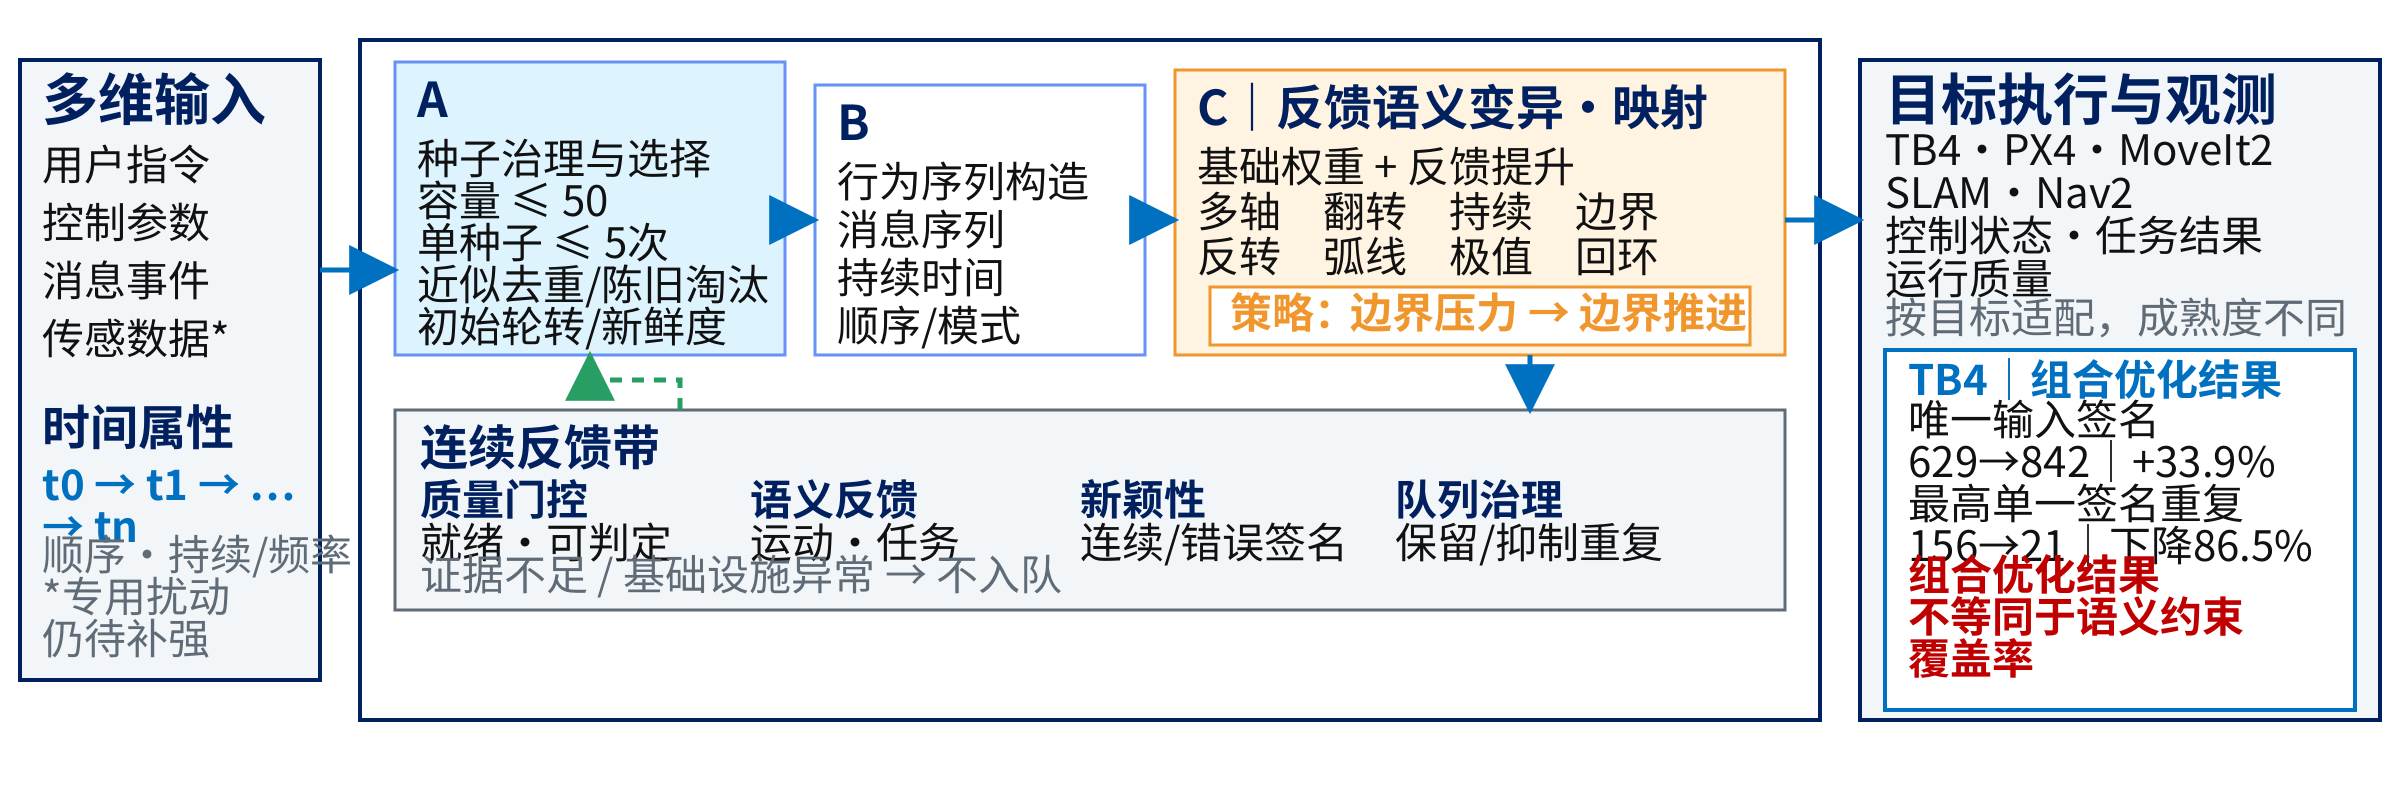
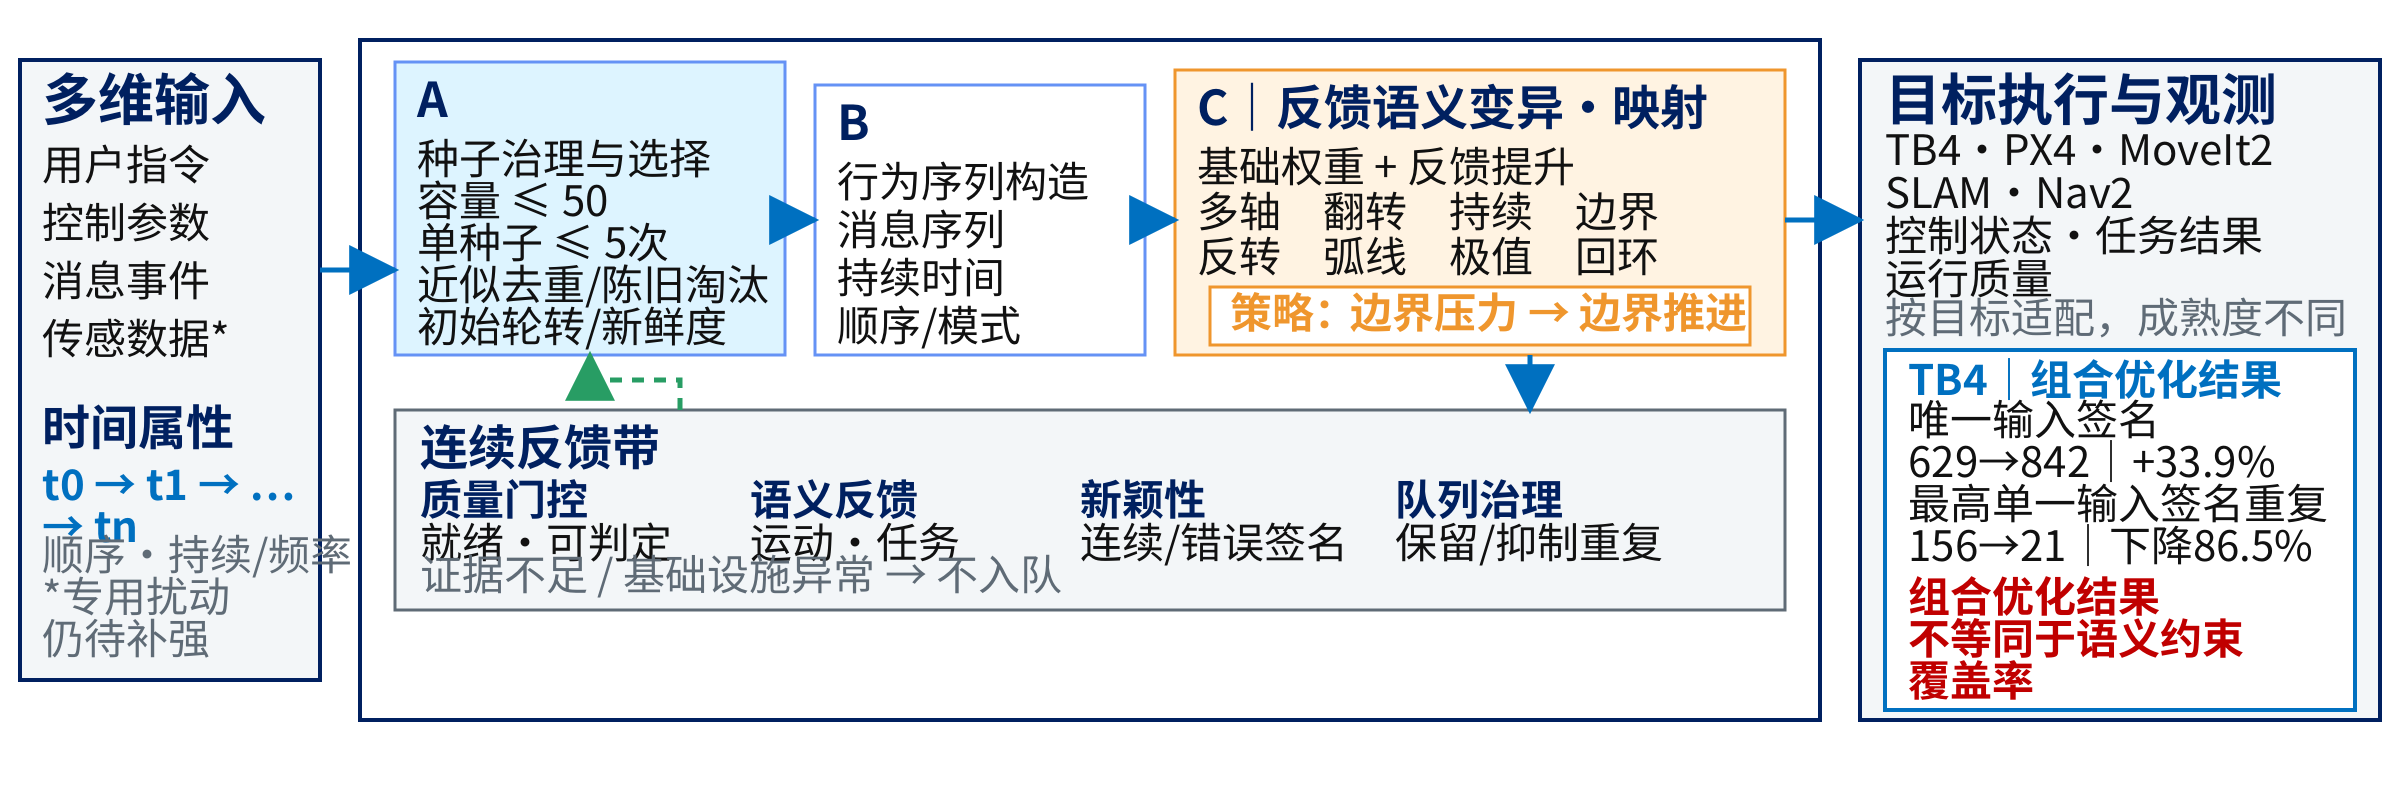
fix: remove PPT diagram overlaps

Changed region(s): [[0.7812, 0.6875, 0.9375, 0.875], [0.8438, 0.5938, 0.9688, 0.6562]]

diff --git a/人才项目/PPT_第2-3部分/tools/svg_diagrams.py b/人才项目/PPT_第2-3部分/tools/svg_diagrams.py
@@ -133,8 +133,8 @@ def draw_overview() -> str:
     c.polyline(((820, 330), (935, 330)), color=COLORS["blue"], arrow="blue")
     c.polyline(((1325, 330), (1440, 330)), color=COLORS["blue"], arrow="blue")
     # Each task has its own correctly typed asset output.
-    c.polyline(((820, 450), (820, 575), (1910, 575), (1910, 220), (1945, 220)), color=COLORS["blue"], arrow="blue")
-    c.polyline(((1325, 450), (1325, 565), (1900, 565), (1900, 337), (1945, 337)), color=COLORS["blue"], arrow="blue")
+    c.polyline(((820, 220), (850, 220), (850, 120), (1910, 120), (1910, 220), (1945, 220)), color=COLORS["blue"], arrow="blue")
+    c.polyline(((1325, 250), (1360, 250), (1360, 135), (1900, 135), (1900, 337), (1945, 337)), color=COLORS["blue"], arrow="blue")
     c.polyline(((1830, 330), (1885, 330), (1885, 454), (1945, 454)), color=COLORS["blue"], arrow="blue")
     # feedback is deliberately above the platform strip.
     c.polyline(((1635, 510), (1635, 550), (1130, 550), (1130, 510)), color=COLORS["green"], arrow="green", dash="12 10")
@@ -183,10 +183,10 @@ def draw_oracle_pipeline() -> str:
     label(c, 1165, 130, "自动化边界", size=48, fill=COLORS["orange"])
     label(c, 1165, 190, "阶段4", size=56)
     c.multiline(1165, 238, ("目标上下文化", "话题/字段　状态/时间窗", "容差/噪声　质量门控", "运行时判断"), leading=44)
-    c.rect(1165, 385, 500, 72, fill=COLORS["white"], stroke=COLORS["orange"])
-    c.multiline(1185, 414, ("候选规则｜目标适配", "并非全部IR上线"), size=42, leading=38, fill=COLORS["orange"], weight="700")
-    c.rect(1165, 470, 500, 95, fill=COLORS["green_fill"], stroke=COLORS["green"])
-    c.multiline(1190, 510, ("正常　/　偏轨", "不可判定"), size=42, leading=44, fill=COLORS["green"], weight="700")
+    c.rect(1165, 385, 500, 92, fill=COLORS["white"], stroke=COLORS["orange"])
+    c.multiline(1185, 420, ("候选规则｜目标适配", "并非全部IR上线"), size=42, leading=46, fill=COLORS["orange"], weight="700")
+    c.rect(1165, 484, 500, 84, fill=COLORS["green_fill"], stroke=COLORS["green"])
+    c.multiline(1190, 518, ("正常　/　偏轨", "不可判定"), size=42, leading=42, fill=COLORS["green"], weight="700")
 
     c.rect(1750, 50, 630, 550, fill=COLORS["gray"], stroke=COLORS["navy"], stroke_width=4)
     label(c, 1772, 112, "OracleIR", size=56)
@@ -251,8 +251,8 @@ def draw_seed_feedback() -> str:
     c.text(1885, 333, "按目标适配，成熟度不同", size=42, fill=COLORS["gray_text"])
     c.rect(1885, 350, 470, 360, fill=COLORS["white"], stroke=COLORS["blue"], stroke_width=4)
     label(c, 1908, 395, "TB4｜组合优化结果", size=42, fill=COLORS["blue"])
-    c.multiline(1908, 435, ("唯一输入签名", "629→842｜+33.9%", "最高单一签名重复", "156→21｜下降86.5%"), size=42, leading=42)
-    c.multiline(1908, 590, ("组合优化结果", "不等同于语义约束", "覆盖率"), size=42, leading=42, fill=COLORS["red"], weight="700")
+    c.multiline(1908, 435, ("唯一输入签名", "629→842｜+33.9%", "最高单一输入签名重复", "156→21｜下降86.5%"), size=42, leading=42)
+    c.multiline(1908, 612, ("组合优化结果", "不等同于语义约束", "覆盖率"), size=42, leading=42, fill=COLORS["red"], weight="700")
 
     c.polyline(((320, 270), (395, 270)), color=COLORS["blue"], arrow="blue")
     c.polyline(((785, 220), (815, 220)), color=COLORS["blue"], arrow="blue")
@@ -277,8 +277,12 @@ def draw_evidence_root_cause() -> str:
     )
     for x, width, (title, lines) in zip(stage_xs, stage_widths, stages):
         c.rect(x, 95, width, 500, fill=COLORS["gray"], stroke=COLORS["line"], stroke_width=3)
-        label(c, x + 18, 150, title, size=56)
-        c.multiline(x + 18, 207, lines, size=42, leading=48)
+        if title == "③在线Oracle":
+            c.multiline(x + 18, 140, ("③在线", "Oracle"), size=56, leading=52, fill=COLORS["navy"], weight="700")
+            c.multiline(x + 18, 240, lines, size=42, leading=48)
+        else:
+            label(c, x + 18, 150, title, size=56)
+            c.multiline(x + 18, 207, lines, size=42, leading=48)
     c.polyline(((385, 345), (405, 345)), color=COLORS["blue"], arrow="blue")
     c.polyline(((745, 345), (765, 345)), color=COLORS["blue"], arrow="blue")
     c.polyline(((1095, 345), (1115, 345)), color=COLORS["blue"], arrow="blue")
@@ -308,7 +312,7 @@ def draw_evidence_root_cause() -> str:
     c.polyline(((2235, 289), (2340, 289), (2340, 355), (2235, 355)), color=COLORS["gray_text"], arrow="gray")
 
     c.rect(1730, 550, 650, 190, fill=COLORS["green_fill"], stroke=COLORS["green"], stroke_width=4)
-    label(c, 1755, 590, "证据带", size=56, fill=COLORS["green"])
+    label(c, 1755, 600, "证据带", size=56, fill=COLORS["green"])
     c.multiline(1755, 640, ("TB4：928轮→781签名", "→1条加速度路径候选链", "MoveIt：224帧→1个候选族"), size=42, leading=48)
 
     c.rect(760, 660, 900, 110, fill=COLORS["orange_fill"], stroke=COLORS["orange"], stroke_width=4, dash="14 10")
